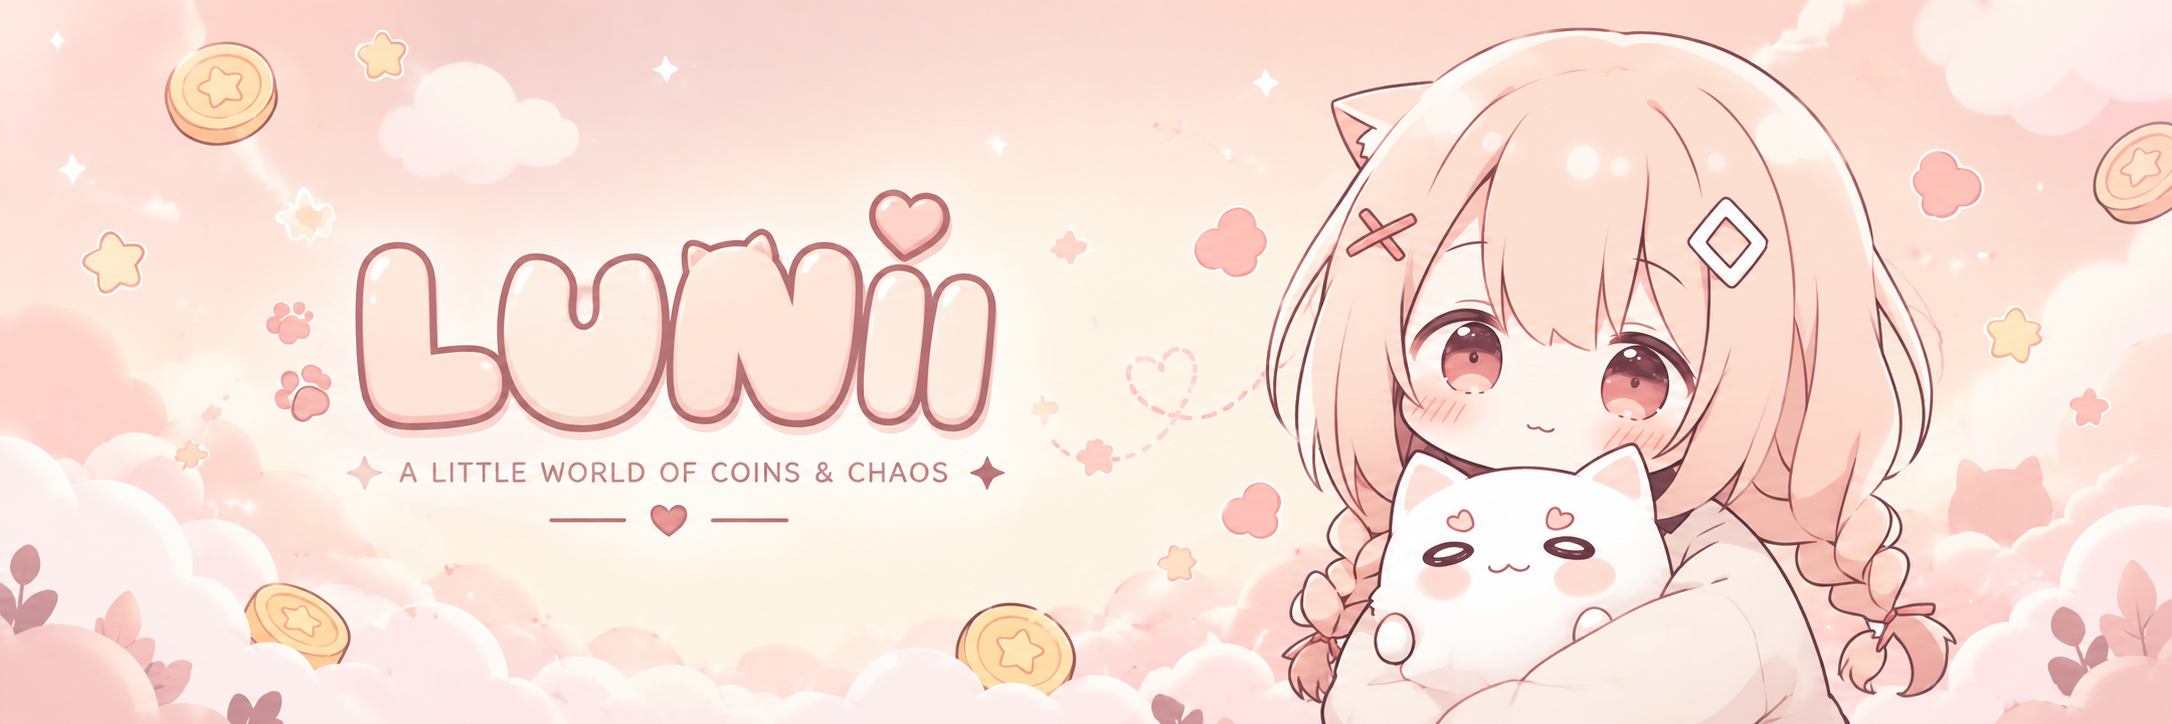
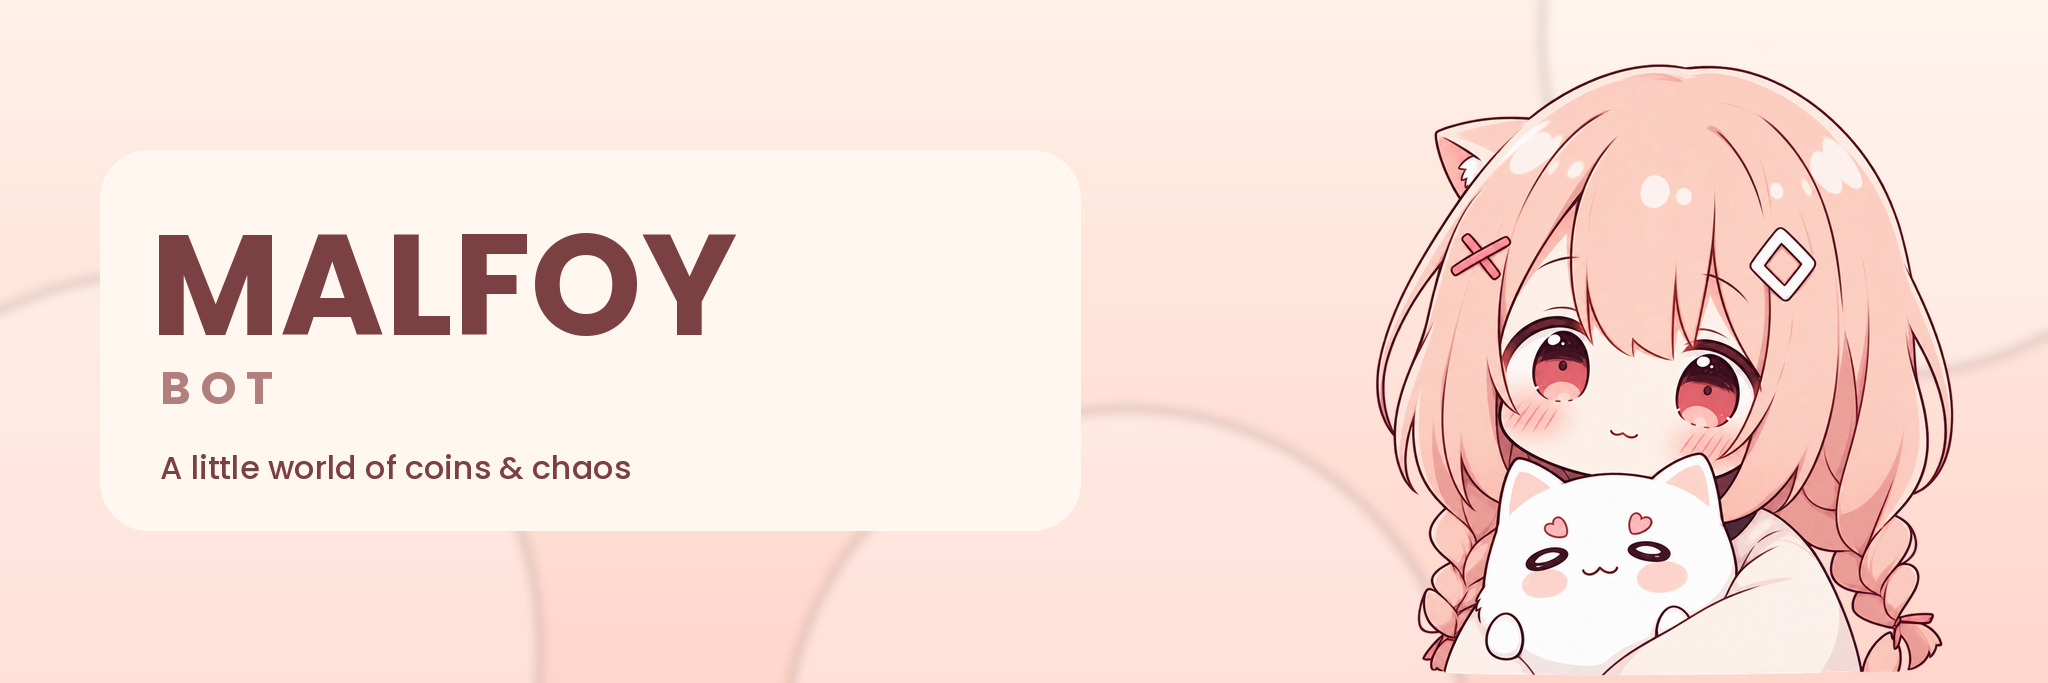
Rebrand Lunii as Malfoy Bot and disable startup emoji uploads
Retain original author attribution and license, update bot branding and profile assets, and cover startup without automatic emoji synchronization.

diff --git a/tests/test_startup.py b/tests/test_startup.py
@@ -1,0 +1,49 @@
+import tempfile
+import unittest
+from pathlib import Path
+from unittest.mock import AsyncMock, patch
+
+import config
+from core.bot import Malfoy
+
+
+class StartupTests(unittest.IsolatedAsyncioTestCase):
+    async def test_startup_loads_commands_without_syncing_emojis(self):
+        with tempfile.TemporaryDirectory() as directory, patch.object(
+            config, "DATABASE_PATH", str(Path(directory) / "bot.db")
+        ):
+            async with Malfoy() as bot:
+                with patch.object(bot.gifs, "load", new_callable=AsyncMock), patch.object(
+                    bot.tree, "sync", new_callable=AsyncMock, return_value=[]
+                ) as slash_sync, patch.object(
+                    bot, "fetch_application_emojis", new_callable=AsyncMock
+                ) as fetch_emojis, patch.object(
+                    bot, "create_application_emoji", new_callable=AsyncMock
+                ) as create_emoji, patch(
+                    "core.emojis.UPLOADED", Path(directory) / "emojis_uploaded.json"
+                ), patch("core.emojis.E._data", {}), patch(
+                    "core.emojis.sync_emojis", new_callable=AsyncMock
+                ) as emoji_sync:
+                    await bot.setup_hook()
+
+                    self.assertEqual(set(bot.extensions), set(config.EXTENSIONS))
+                    self.assertIsNotNone(await bot.db.fetchone("SELECT 1"))
+                    slash_sync.assert_awaited_once()
+                    emoji_sync.assert_not_awaited()
+                    fetch_emojis.assert_not_awaited()
+                    create_emoji.assert_not_awaited()
+                    self.assertFalse((Path(directory) / "emojis_uploaded.json").exists())
+                    manual_sync = bot.get_command("emojisync")
+                    self.assertIsNotNone(manual_sync)
+                    self.assertTrue(manual_sync.hidden)
+
+                    # The explicit owner command still runs its uploader.
+                    with patch("cogs.owner.sync_emojis", new_callable=AsyncMock, return_value={}) as upload, patch(
+                        "cogs.owner.ui.notice", new_callable=AsyncMock
+                    ):
+                        await manual_sync.callback(manual_sync.cog, object())
+                        upload.assert_awaited_once_with(bot)
+
+
+if __name__ == "__main__":
+    unittest.main()

diff --git a/core/bot.py b/core/bot.py
@@ -10,10 +10,9 @@ from discord.ext import commands
 import config
 from core import ui
 from core.database import Database
-from core.emojis import E, needs_sync, sync_emojis
 from core.gifs import GifPool
 
-log = logging.getLogger("lunii")
+log = logging.getLogger("malfoy")
 
 
 def category_of(ctx):
@@ -31,7 +30,7 @@ class Blacklisted(commands.CheckFailure):
     pass
 
 
-class Lunii(commands.Bot):
+class Malfoy(commands.Bot):
     def __init__(self):
         intents = discord.Intents.default()
         intents.message_content = True
@@ -80,11 +79,6 @@ class Lunii(commands.Bot):
         await self.load_guild_cache()
         self.session = aiohttp.ClientSession()
         await self.gifs.load(self.session)
-        if needs_sync():
-            try:
-                await sync_emojis(self)
-            except Exception:
-                log.exception("Emoji sync failed")
         for extension in config.EXTENSIONS:
             try:
                 await self.load_extension(extension)

diff --git a/script/make_banner.py b/script/make_banner.py
@@ -1,0 +1,28 @@
+"""Render the Malfoy Bot banner using the bundled artwork and fonts."""
+
+import sys
+from pathlib import Path
+
+ROOT = Path(__file__).resolve().parent.parent
+sys.path.insert(0, str(ROOT))
+
+from PIL import Image, ImageDraw
+
+import config
+from core.cards import background, character, font
+
+
+def main():
+    banner = background(2048, 683)
+    art = character(650)
+    banner.alpha_composite(art, (2048 - art.width - 90, 33))
+    draw = ImageDraw.Draw(banner)
+    draw.rounded_rectangle((100, 150, 1080, 530), radius=48, fill=(255, 247, 240, 235))
+    draw.text((150, 185), "MALFOY", font=font("Bold", 142), fill=config.CARD_THEME["ink"])
+    draw.text((160, 355), "B O T", font=font("Bold", 46), fill=config.CARD_THEME["muted"])
+    draw.text((160, 445), config.TAGLINE, font=font("Medium", 32), fill=config.CARD_THEME["ink"])
+    banner.convert("RGB").save(ROOT / "assets" / "banner.png")
+
+
+if __name__ == "__main__":
+    main()

diff --git a/config.py b/config.py
@@ -9,7 +9,7 @@ def _ids(raw):
     return {int(x) for x in raw.replace(" ", "").split(",") if x.isdigit()}
 
 
-BOT_NAME = "Lunii"
+BOT_NAME = "Malfoy Bot"
 TAGLINE = "A little world of coins & chaos"
 VERSION = "1.0.0"
 
@@ -21,9 +21,10 @@ WEBSITE_URL = os.getenv("WEBSITE_URL", "")
 BANNER_URL = os.getenv("BANNER_URL", "")
 LOG_CHANNEL_ID = int(os.getenv("LOG_CHANNEL_ID", "0") or 0)
 
+# Retain the original filename so existing installations keep their player data.
 DATABASE_PATH = "data/lunii.db"
 SYNC_SLASH_ON_START = True
-PRESENCE_TEXT = "{prefix}help | FX DEVELOPMENT"
+PRESENCE_TEXT = "{prefix}help | Malfoy Bot"
 
 ACCENT = 0xFFD9C9
 ACCENT_OK = 0xA8E6C9
@@ -31,7 +32,7 @@ ACCENT_ERR = 0xFF8FA3
 ACCENT_WARN = 0xFFD98A
 ACCENT_INFO = 0xFFE3D6
 
-EMOJI_PREFIX = "lunii_"
+EMOJI_PREFIX = "malfoy_"
 
 CURRENCY = "coins"
 START_CASH = 500

diff --git a/cogs/economy.py b/cogs/economy.py
@@ -10,12 +10,12 @@ from discord.ext import commands
 
 import config
 from core import cards, data, ui, utils
-from core.base import LuniiCog
+from core.base import MalfoyCog
 from core.database import level_for, xp_for
 from core.emojis import E
 from core.utils import Cash, fmt
 
-log = logging.getLogger("lunii.economy")
+log = logging.getLogger("malfoy.economy")
 
 
 class LeaderboardView(ui.Layout):
@@ -78,7 +78,7 @@ class LeaderboardView(ui.Layout):
         await interaction.response.edit_message(view=self)
 
 
-class Economy(LuniiCog):
+class Economy(MalfoyCog):
     category = "Economy"
     groups = [
         ("Earn", ["daily", "work", "beg", "crime", "rob", "pay"]),

diff --git a/script/set_profile.py b/script/set_profile.py
@@ -21,7 +21,7 @@ async def main():
     if not config.TOKEN:
         print("No TOKEN found in .env")
         return
-    payload = {}
+    payload = {"username": config.BOT_NAME}
     avatar = ROOT / "assets" / "avatar.png"
     banner = ROOT / "assets" / "banner.png"
     if avatar.exists():
@@ -32,7 +32,7 @@ async def main():
     async with client:
         await client.login(config.TOKEN)
         await client.http.request(Route("PATCH", "/users/@me"), json=payload)
-        print("Avatar and banner updated.")
+        print("Username, avatar and banner updated.")
 
 
 if __name__ == "__main__":

diff --git a/cogs/bank.py b/cogs/bank.py
@@ -4,7 +4,7 @@ from discord.ext import commands
 
 import config
 from core import ui, utils
-from core.base import LuniiCog
+from core.base import MalfoyCog
 from core.emojis import E
 from core.utils import DepositAmount, WithdrawAmount, fmt
 
@@ -69,7 +69,7 @@ class BankView(ui.Layout):
             await self.refresh(interaction, f"{E.DENIED} You need **{fmt(cost)}** {config.CURRENCY} in your wallet to upgrade.")
 
 
-class Bank(LuniiCog):
+class Bank(MalfoyCog):
     category = "Bank"
     groups = [("Vault", ["bank", "deposit", "withdraw", "upgrade"])]
 

diff --git a/cogs/help.py b/cogs/help.py
@@ -6,7 +6,7 @@ from discord.ext import commands
 
 import config
 from core import ui
-from core.base import LuniiCog
+from core.base import MalfoyCog
 from core.emojis import E
 
 class HelpView(ui.Layout):
@@ -102,7 +102,7 @@ class HelpView(ui.Layout):
         await self.show(interaction, -1)
 
 
-class Help(LuniiCog):
+class Help(MalfoyCog):
     category = None
 
     @commands.hybrid_command(name="help", aliases=["h", "commands"], help="Open the help menu.")

diff --git a/cogs/games.py b/cogs/games.py
@@ -8,7 +8,7 @@ from discord.ext import commands
 
 import config
 from core import ui
-from core.base import LuniiCog
+from core.base import MalfoyCog
 from core.emojis import E
 from core.utils import fmt, parse_amount
 
@@ -237,7 +237,7 @@ class RpsView(ui.Layout):
                 pass
 
 
-class Games(LuniiCog):
+class Games(MalfoyCog):
     category = "Games"
     groups = [("Casino", ["coinflip", "slots", "blackjack", "roulette", "dice", "rps"])]
 

diff --git a/main.py b/main.py
@@ -2,7 +2,7 @@ import logging
 import sys
 
 import config
-from core.bot import Lunii
+from core.bot import Malfoy
 
 
 def main():
@@ -10,7 +10,7 @@ def main():
         print("No TOKEN found. Copy .env.example to .env and fill it in.")
         sys.exit(1)
     logging.basicConfig(level=logging.INFO, format="%(asctime)s %(levelname)-7s %(name)s: %(message)s")
-    bot = Lunii()
+    bot = Malfoy()
     bot.run(config.TOKEN, log_handler=None)
 
 

diff --git a/cogs/fun.py b/cogs/fun.py
@@ -10,7 +10,7 @@ from discord.ext import commands
 
 import config
 from core import data, ui
-from core.base import LuniiCog
+from core.base import MalfoyCog
 from core.emojis import E
 from core.utils import bar
 
@@ -133,7 +133,7 @@ class RoleplayView(ui.Layout):
         await interaction.followup.send(view=reply)
 
 
-class Fun(LuniiCog):
+class Fun(MalfoyCog):
     category = "Fun"
 
     def __init__(self, bot):

diff --git a/core/cards.py b/core/cards.py
@@ -238,7 +238,7 @@ def shop_card(items):
     logo = icon("logo", 72)
     if logo is not None:
         base.alpha_composite(logo, (52, 32))
-    draw_text(base, (140, 30), "Lunii Shop", "Bold", 38)
+    draw_text(base, (140, 30), f"{config.BOT_NAME} Shop", "Bold", 38)
     draw_text(base, (142, 80), "Pick something nice for your adventures", "Medium", 18, T["muted"])
     cols = 2
     tw, th = 400, 150
